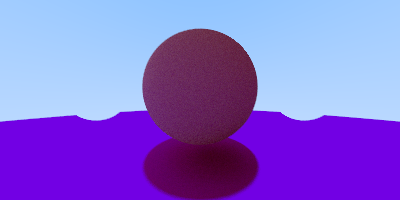
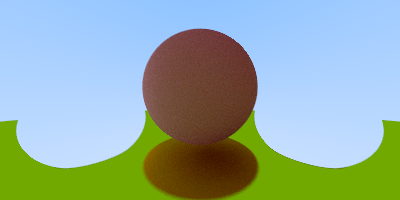
more restructure

diff --git a/src/lib.rs b/src/lib.rs
@@ -1,4 +1,5 @@
 pub mod materials;
+pub mod scene;
 pub mod utils;
 
 use glam::Vec3;
@@ -7,30 +8,24 @@ use materials::Material;
 /// For ray calculate color in the given world - list of objects with coordinates
 pub fn color(ray: &Ray, world: &Vec<Box<dyn Surface>>, depth: i32) -> Vec3 {
     if let Some(hit) = world.hit(ray, 0.0001, f32::MAX) {
-        let mut scattered = Ray::new(Vec3::ZERO, Vec3::splat(0.2));
-        let mut attenuation: Vec3 = Vec3::ZERO;
-        if depth < 50
-            && hit
-                .material
-                .scatter(ray, &hit, &mut attenuation, &mut scattered)
-        {
+        if let Some((attenuation, scattered)) = hit.material.scatter(ray, &hit) {
             let col: Vec3 = color(&scattered, world, depth + 1);
             return attenuation * col;
         }
     }
 
-    let norm = ray.direction().norm();
+    let norm = ray.direction().unit_vec();
     let t = 0.5 * norm.y + 1.0;
     (1.0 - t) * Vec3::ONE + t * Vec3::new(0.5, 0.7, 1.0)
 }
 
 pub trait Vec3Ext<T> {
     /// Unit vector: v / v.length()
-    fn norm(&self) -> T;
+    fn unit_vec(&self) -> T;
 }
 
 impl Vec3Ext<Vec3> for Vec3 {
-    fn norm(&self) -> Vec3 {
+    fn unit_vec(&self) -> Vec3 {
         *self / self.length()
     }
 }
@@ -86,86 +81,4 @@ impl<'a> Hit<'a> {
 
 pub trait Surface {
     fn hit(&self, ray: &Ray, t_min: f32, t_max: f32) -> Option<Hit>;
-}
-
-pub struct Sphere {
-    center: Vec3,
-    radius: f32,
-    material: Box<dyn Material>,
-}
-
-impl Sphere {
-    pub fn new(center: Vec3, radius: f32, material: Box<dyn Material>) -> Self {
-        Sphere {
-            center,
-            radius,
-            material,
-        }
-    }
-}
-
-impl Surface for Sphere {
-    fn hit(&self, ray: &Ray, t_min: f32, t_max: f32) -> Option<Hit> {
-        let oc: Vec3 = ray.origin() - self.center;
-        let a = ray.direction().dot(ray.direction());
-        let b = oc.dot(ray.direction());
-        let c = oc.dot(oc) - self.radius * self.radius;
-        let discriminant = b * b - a * c;
-        if discriminant > 0.0 {
-            let temp = (-b - discriminant.sqrt()) / a;
-            if temp < t_max && temp > t_min {
-                return Some(Hit::new(temp, ray, self.center, &*self.material));
-            }
-            let temp = (-b + discriminant.sqrt()) / a;
-            if temp < t_max && temp > t_min {
-                return Some(Hit::new(temp, ray, self.center, &*self.material));
-            }
-        }
-        None
-    }
-}
-
-impl Surface for Vec<Box<dyn Surface>> {
-    fn hit(&self, ray: &Ray, t_min: f32, t_max: f32) -> Option<Hit> {
-        let mut temp_hit = None;
-        let mut closest_so_far = t_max;
-        for surface in self.iter() {
-            if let Some(hit) = surface.hit(ray, t_min, closest_so_far) {
-                closest_so_far = hit.t;
-                temp_hit = Some(hit);
-            }
-        }
-
-        temp_hit
-    }
-}
-
-pub struct Camera {
-    pub lower_left: Vec3,
-    pub horiz: Vec3,
-    pub vert: Vec3,
-    pub origin: Vec3,
-}
-
-impl Camera {
-    pub fn get_ray(&self, u: f32, v: f32) -> Ray {
-        Ray::new(
-            self.origin,
-            self.lower_left + u * self.horiz + v * self.vert - self.origin,
-        )
-    }
-}
-
-impl Default for Camera {
-    fn default() -> Self {
-        // Note: in the book Peter assumes that y is going up, but
-        // image crate pixel enumeration assumes has y going down,
-        // and honestly I think it's much more intuitive
-        Self {
-            lower_left: Vec3::new(-2.0, 1.0, -1.0),
-            horiz: Vec3::new(4.0, 0.0, 0.0),
-            vert: Vec3::new(0.0, -2.0, 0.0),
-            origin: Vec3::ZERO,
-        }
-    }
 }

diff --git a/src/scene.rs b/src/scene.rs
@@ -1,0 +1,89 @@
+use crate::{materials::Material, Hit, Ray, Surface};
+use glam::Vec3;
+
+pub struct Sphere {
+    center: Vec3,
+    radius: f32,
+    material: Box<dyn Material>,
+}
+
+impl Sphere {
+    pub fn new(center: Vec3, radius: f32, material: Box<dyn Material>) -> Self {
+        Sphere {
+            center,
+            radius,
+            material,
+        }
+    }
+}
+
+impl Surface for Sphere {
+    fn hit(&self, ray: &Ray, t_min: f32, t_max: f32) -> Option<Hit> {
+        let oc: Vec3 = ray.origin() - self.center;
+        let a = ray.direction().dot(ray.direction());
+        let b = oc.dot(ray.direction());
+        let c = oc.dot(oc) - self.radius * self.radius;
+        let discriminant = b * b - a * c;
+        if discriminant < 0.0 {
+            return None;
+        }
+
+        let d_root = discriminant.sqrt();
+        if discriminant > 0.0 {
+            let root = (-b - d_root) / a;
+            if root < t_max && root > t_min {
+                return Some(Hit::new(root, ray, self.center, &*self.material));
+            }
+            let root = (-b + d_root) / a;
+            if root < t_max && root > t_min {
+                return Some(Hit::new(root, ray, self.center, &*self.material));
+            }
+        }
+        None
+    }
+}
+
+impl Surface for Vec<Box<dyn Surface>> {
+    fn hit(&self, ray: &Ray, t_min: f32, t_max: f32) -> Option<Hit> {
+        let mut temp_hit = None;
+        let mut closest_so_far = t_max;
+        for surface in self.iter() {
+            if let Some(hit) = surface.hit(ray, t_min, closest_so_far) {
+                closest_so_far = hit.t;
+                temp_hit = Some(hit);
+            }
+        }
+
+        temp_hit
+    }
+}
+
+pub struct Camera {
+    pub lower_left: Vec3,
+    pub horiz: Vec3,
+    pub vert: Vec3,
+    pub origin: Vec3,
+}
+
+impl Camera {
+    pub fn get_ray(&self, u: f32, v: f32) -> Ray {
+        Ray::new(
+            self.origin,
+            self.lower_left + u * self.horiz + v * self.vert - self.origin,
+        )
+    }
+}
+
+impl Default for Camera {
+    fn default() -> Self {
+        // Note: in the book Peter assumes that y is going up, but
+        // image crate pixel enumeration assumes has y going down,
+        // and honestly I think it's much more intuitive
+        Self {
+            lower_left: Vec3::new(-2.0, 1.0, -1.0),
+            horiz: Vec3::new(4.0, 0.0, 0.0),
+            vert: Vec3::new(0.0, -2.0, 0.0),
+            origin: Vec3::ZERO,
+        }
+    }
+}

diff --git a/src/materials.rs b/src/materials.rs
@@ -22,11 +22,8 @@ pub fn rand_in_unit_sphere() -> Vec3 {
     }
 }
 
-/// In the book this is the abstract class, but if we make it a trait
-/// it will explode with generics all over the code. To follow KISS principle
-/// we'll make it enum, aggregating logic for all materials
 pub trait Material {
-    fn scatter(&self, r_in: &Ray, hit: &Hit, attenuation: &mut Vec3, scattered: &mut Ray) -> bool;
+    fn scatter(&self, ray: &Ray, hit: &Hit) -> Option<(Vec3, Ray)>;
 }
 
 /// Represent simple materials that neither reflect nor refract
@@ -43,14 +40,14 @@ impl Lambertian {
 }
 
 impl Material for Lambertian {
-    fn scatter(&self, _r_in: &Ray, hit: &Hit, attenuation: &mut Vec3, scattered: &mut Ray) -> bool {
+    fn scatter(&self, _: &Ray, hit: &Hit) -> Option<(Vec3, Ray)> {
         let target = hit.p + hit.normal + rand_in_unit_sphere();
-        *scattered = Ray::new(hit.p, target - hit.p);
+        let scattered = Ray::new(hit.p, target - hit.p);
         // We could as well introduce some probability for scatter
         // let p = rand::thread_rng().gen_range(0.1..0.99);
         // *attenuation = self.albedo / p;
-        *attenuation = self.albedo;
-        return true;
+        let attenuation = self.albedo;
+        return Some((attenuation, scattered));
     }
 }
 
@@ -71,13 +68,16 @@ impl Metal {
 }
 
 impl Material for Metal {
-    fn scatter(&self, r_in: &Ray, hit: &Hit, attenuation: &mut Vec3, scattered: &mut Ray) -> bool {
-        let reflected = Self::reflect(r_in.direction().norm(), hit.normal);
-        *scattered = Ray::new(hit.p, reflected);
+    fn scatter(&self, r_in: &Ray, hit: &Hit) -> Option<(Vec3, Ray)> {
+        let reflected = Self::reflect(r_in.direction().unit_vec(), hit.normal);
+        let scattered = Ray::new(hit.p, reflected);
         // We could as well introduce some probability for scatter
-        let p = rand::thread_rng().gen_range(0.1..0.99);
-        *attenuation = self.albedo / p;
-        // *attenuation = self.albedo;
-        return scattered.direction().dot(hit.normal) > 0.0;
+        // let p = rand::thread_rng().gen_range(0.1..0.99);
+        // *attenuation = self.albedo / p;
+        let attenuation = self.albedo;
+        if scattered.direction().dot(hit.normal) > 0.0 {
+            return Some((attenuation, scattered));
+        }
+        None
     }
 }

diff --git a/src/main.rs b/src/main.rs
@@ -8,7 +8,8 @@ use rand::Rng;
 use rt_in_1_weekend::{
     color,
     materials::{Lambertian, Metal},
-    utils, Camera, Sphere, Surface,
+    scene::{Camera, Sphere},
+    utils, Surface,
 };
 use std::path::Path;
 
@@ -19,7 +20,7 @@ fn world<'a>() -> Vec<Box<dyn Surface>> {
     let mut world: Vec<Box<dyn Surface>> = vec![];
 
     let diffuse1 = Box::new(Lambertian::new(Vec3::new(0.8, 0.3, 0.3)));
-    let diffuse2 = Box::new(Lambertian::new(Vec3::new(0.8, 0.0, 0.8)));
+    let diffuse2 = Box::new(Lambertian::new(Vec3::new(0.8, 0.8, 0.0)));
     let reflective1 = Box::new(Metal::new(Vec3::new(0.8, 0.6, 0.2)));
     let reflective2 = Box::new(Metal::new(Vec3::new(0.8, 0.8, 0.8)));
     world.push(Box::new(Sphere::new(
@@ -35,13 +36,13 @@ fn world<'a>() -> Vec<Box<dyn Surface>> {
     )));
 
     world.push(Box::new(Sphere::new(
-        Vec3::new(1.0, 0.0, -1.0),
-        0.2,
+        Vec3::new(1.0, -0.2, -1.0),
+        0.4,
         reflective1,
     )));
     world.push(Box::new(Sphere::new(
-        Vec3::new(-1.0, 0.0, -1.0),
-        0.2,
+        Vec3::new(-1.0, -0.2, -1.0),
+        0.4,
         reflective2,
     )));
 
@@ -50,6 +51,7 @@ fn world<'a>() -> Vec<Box<dyn Surface>> {
 
 fn main() {
     let t = utils::Timer::new();
+    // ns is just step count for antialiasing
     let (w, h, ns) = (DIM as f32 * 2.0, DIM as f32, 100);
     let mut buf = ImageBuffer::new(w as u32, h as u32);
 
@@ -61,9 +63,10 @@ fn main() {
         let (x, y) = (x as f32, y as f32);
 
         for _ in 0..ns {
-            // This two are pixel's relative coordinates on the screen
             let mut rng = rand::thread_rng();
             let rand = rng.gen_range(0.0..1.0);
+
+            // This two are pixel's relative coordinates on the screen
             let (u, v) = (((x + rand) / w), ((y + rand) / h));
             let ray = camera.get_ray(u, v);
             // let p = ray.point_at(2.0);
